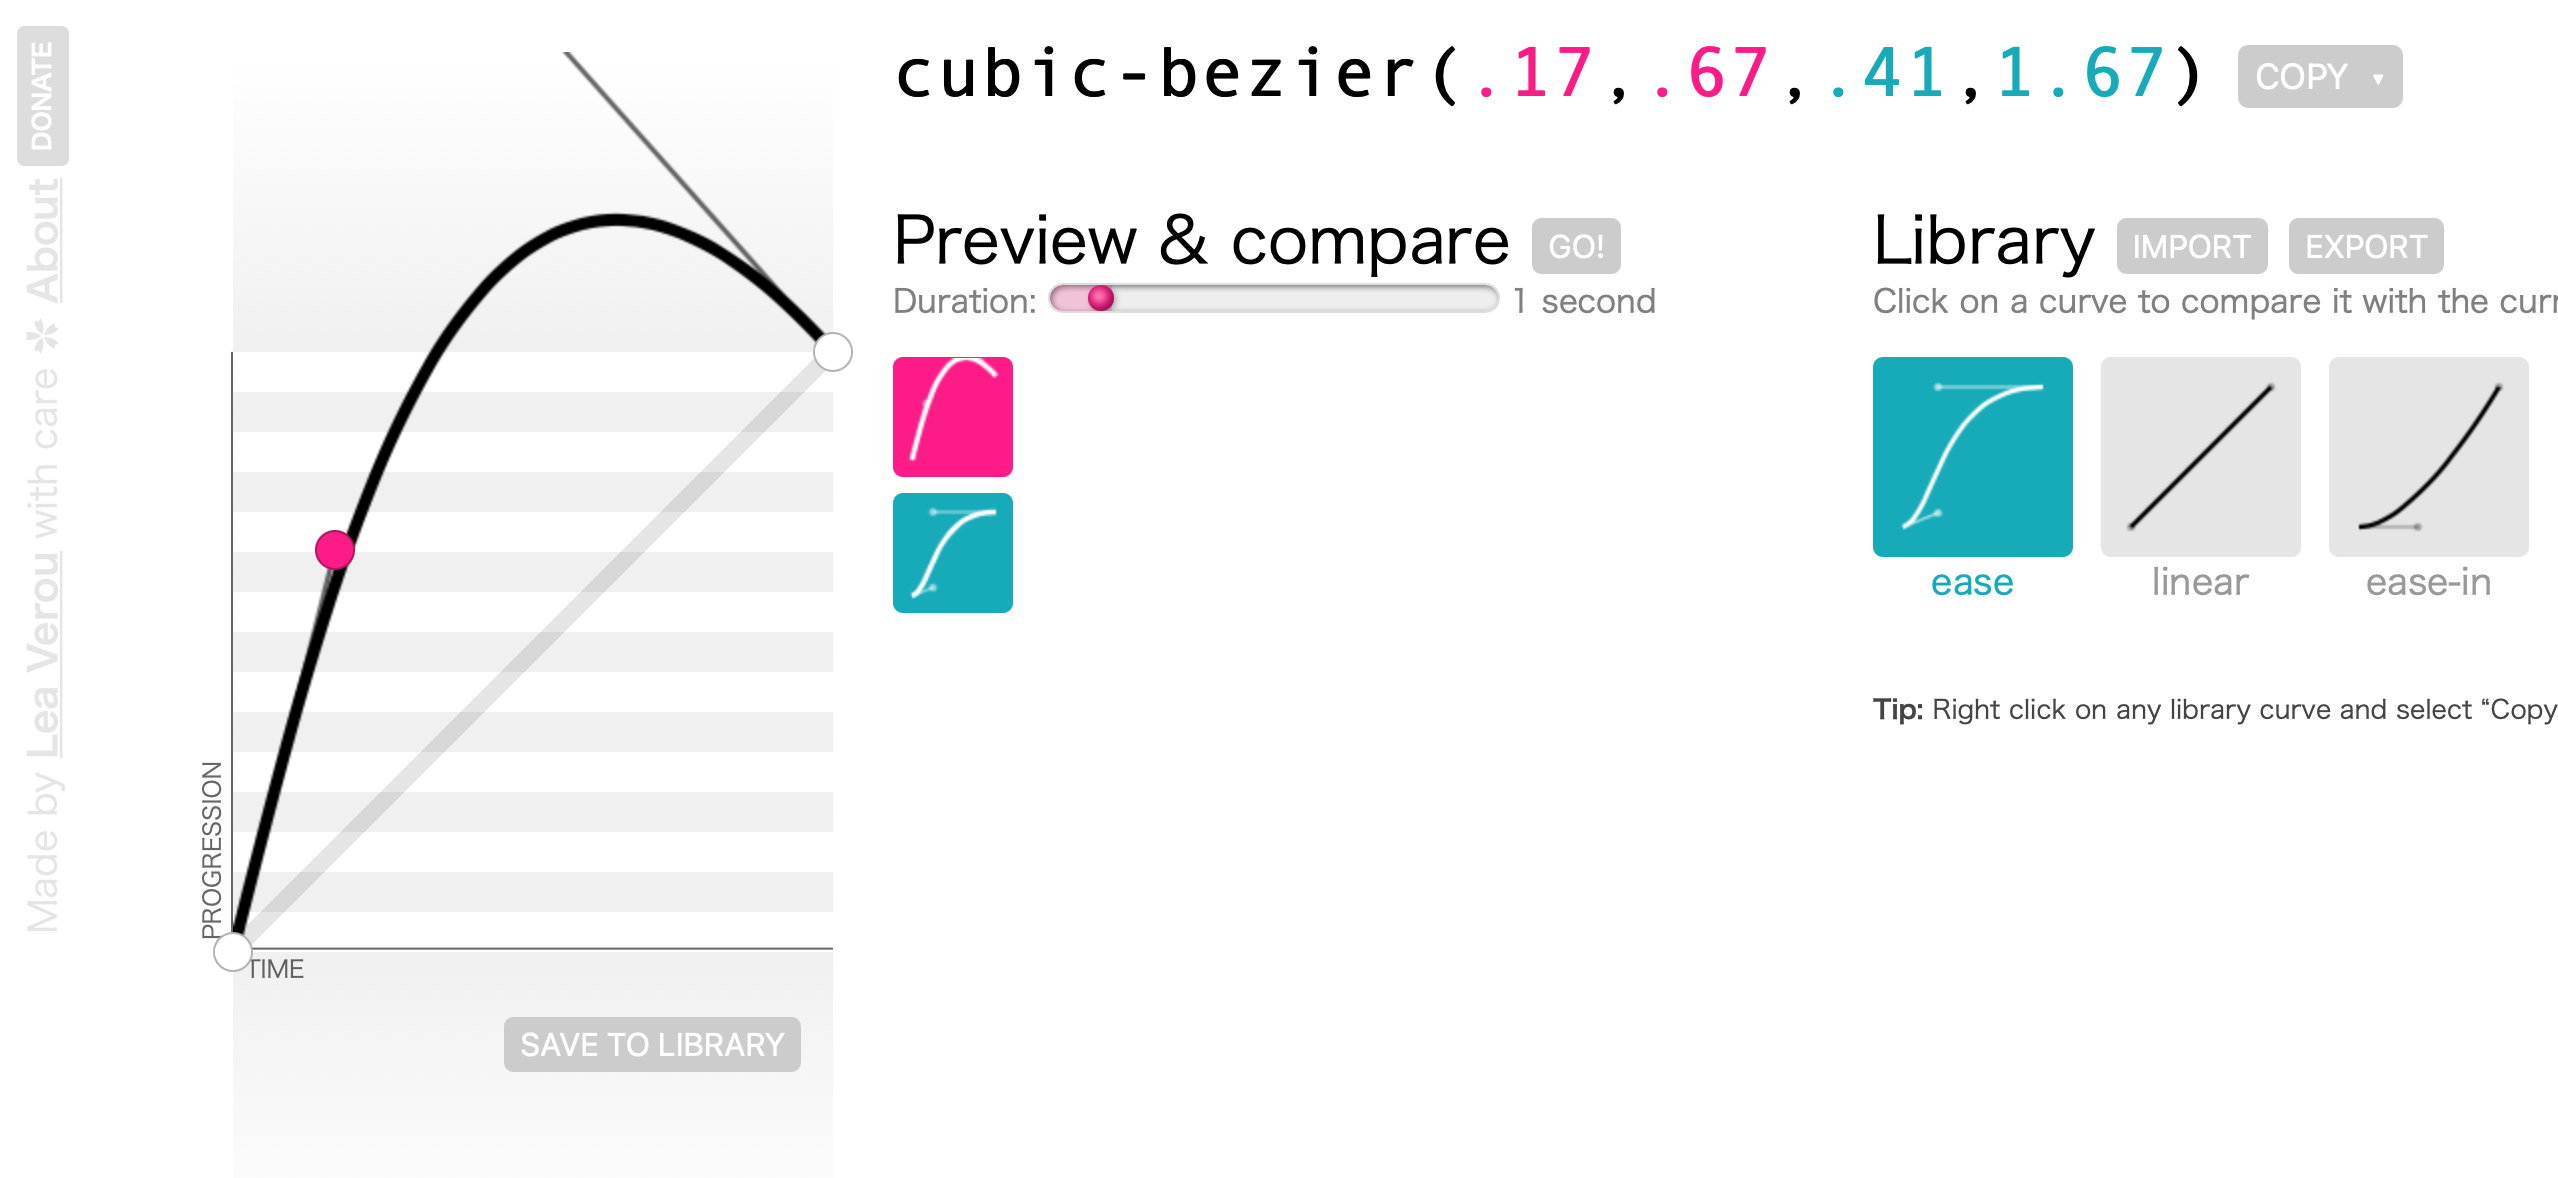
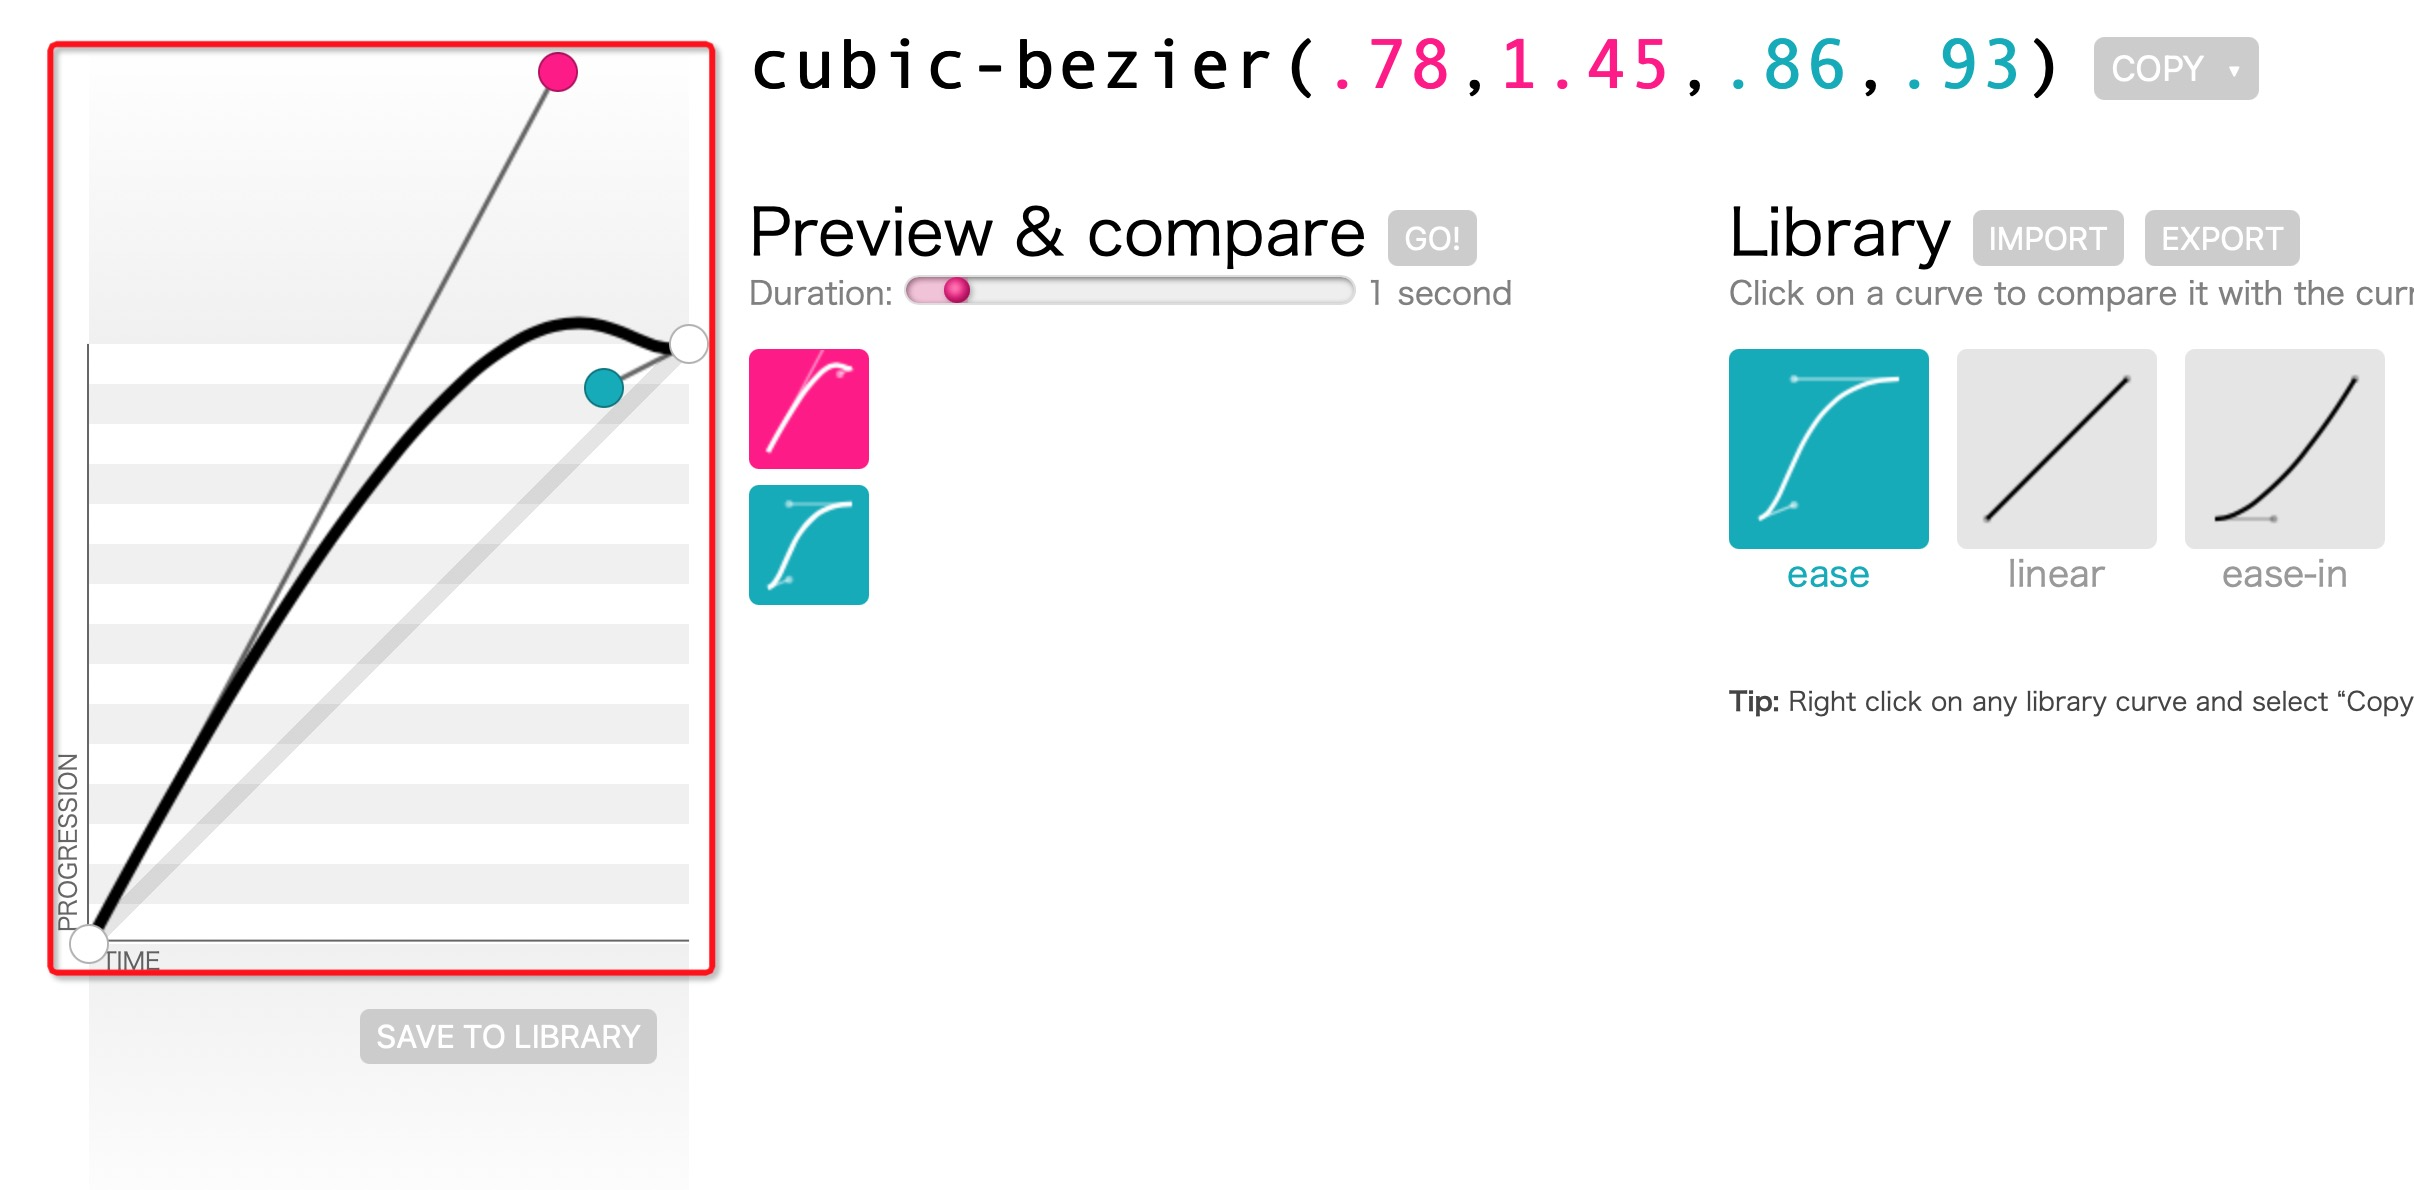
完成了《大白话入门CSS3动画文章》

diff --git a/0001/code/index.html b/0001/code/index.html
@@ -60,8 +60,25 @@
 
         @keyframes keepMoving01 {
             0% {
-                left: 0px;
+                left: 0;
                 background: #7cd460;
+            }
+
+            50% {
+                background: #333333;
+            }
+
+            100% {
+                left: 500px;
+                background: #fbe760;
+                transform: rotate(360deg);
+            }
+        }
+
+        @keyframes keepMoving02 {
+            0% {
+                left: 0;
+                background: #ff0000;
             }
 
             50% {
@@ -100,13 +117,48 @@
         }
 
         .animate-object-08 {
-            animation: keepMoving01 3s cubic-bezier(.17,.67,.41,1.67) 2s 4 alternate;
+            animation: keepMoving01 3s cubic-bezier(.17, .67, .41, 1.67) 2s 4 alternate;
         }
 
         .animate-object-09 {
-            animation: keepMoving01 3s cubic-bezier(.78,1.45,.86,.93) 2s 1 forwards;
+            animation: keepMoving02 3s cubic-bezier(.78, 1.45, .86, .93) 2s 1 normal forwards;
+        }
+
+        .animate-object-10 {
+            animation: keepMoving02 3s cubic-bezier(.78, 1.45, .86, .93) 2s 1 normal backwards;
+        }
+
+        .animate-object-11 {
+            animation: keepMoving02 3s cubic-bezier(.78, 1.45, .86, .93) 2s 1 normal none;
+        }
+
+        .animate-object-12 {
+            animation: keepMoving02 3s cubic-bezier(.78, 1.45, .86, .93) 2s 1 normal both;
+        }
+
+        .animate-object-13 {
+            animation: keepMoving02 3s cubic-bezier(.78, 1.45, .86, .93) infinite alternate both;
+            animation-play-state: paused;
+        }
+
+        .animate-object-13:hover {
+            animation-play-state: running;
+        }
+
+        .animate-object-14 {
+            animation: keepMoving02 3s cubic-bezier(.78, 1.45, .86, .93) infinite alternate both;
         }
     </style>
+    <script type="text/javascript">
+      window.onload = function () {
+        document.getElementById('play-btn').onclick = function () {
+          document.getElementsByClassName('animate-object-14')[0].style.animationPlayState = 'running'
+        }
+        document.getElementById('pause-btn').onclick = function () {
+          document.getElementsByClassName('animate-object-14')[0].style.animationPlayState = 'paused'
+        }
+      }
+    </script>
 </head>
 
 <body>
@@ -176,10 +228,51 @@
 </div>
 
 <div class="module-style">
-    animation: keepMoving01 3s cubic-bezier(.69,1.76,.66,.73) 2s 1;
+    animation: keepMoving02 3s cubic-bezier(.78,1.45,.86,.93) 2s 1 normal forwards;
 </div>
 <div class="module-content">
     <div class="animate-object animate-object-09">我是一<br>个球😁</div>
+</div>
+
+<div class="module-style">
+    animation: keepMoving02 3s cubic-bezier(.78,1.45,.86,.93) 2s 1 normal backwards;
+</div>
+<div class="module-content">
+    <div class="animate-object animate-object-10">我是一<br>个球😁</div>
+</div>
+
+<div class="module-style">
+    animation: keepMoving02 3s cubic-bezier(.78,1.45,.86,.93) 2s 1 normal none;
+</div>
+<div class="module-content">
+    <div class="animate-object animate-object-11">我是一<br>个球😁</div>
+</div>
+
+<div class="module-style">
+    animation: keepMoving02 3s cubic-bezier(.78,1.45,.86,.93) 2s 1 normal both;
+</div>
+<div class="module-content">
+    <div class="animate-object animate-object-12">我是一<br>个球😁</div>
+</div>
+
+<div class="module-style">
+    鼠标放到球上才会向前滚动<br>
+    animation: keepMoving02 3s cubic-bezier(.78, 1.45, .86, .93) infinite alternate both;
+</div>
+<div class="module-content">
+    <div class="animate-object animate-object-13">我是一<br>个球😁</div>
+</div>
+
+<div class="module-style">
+    通过播放、暂停按钮控制滚动<br>
+    animation: keepMoving02 3s cubic-bezier(.78, 1.45, .86, .93) infinite alternate both;
+</div>
+<div class="module-content">
+    <div class="animate-object animate-object-14">我是一<br>个球😁</div>
+</div>
+<div class="control-content">
+    <button id="play-btn">播放</button>
+    <button id="pause-btn">暂停</button>
 </div>
 </body>
 
